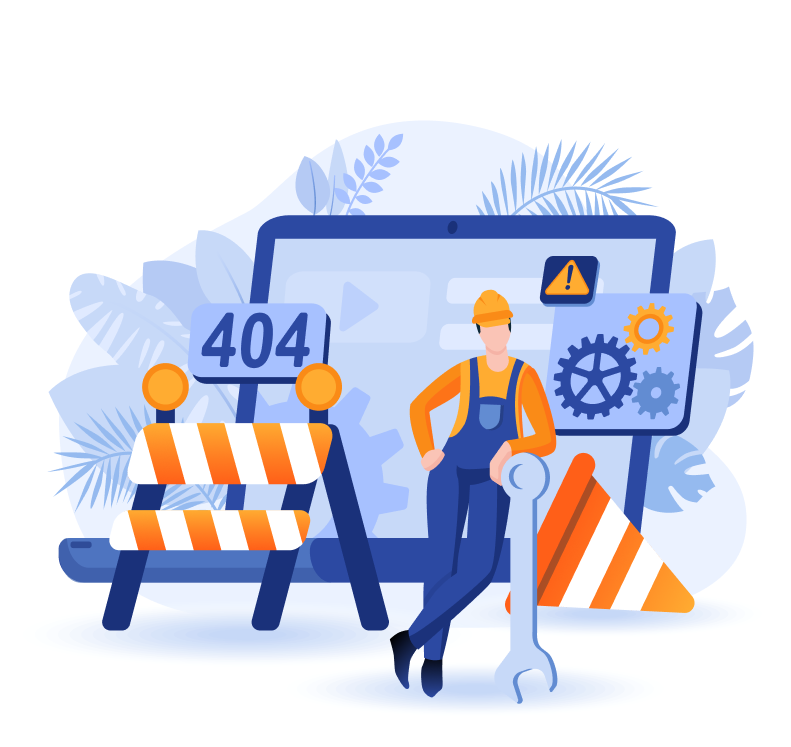
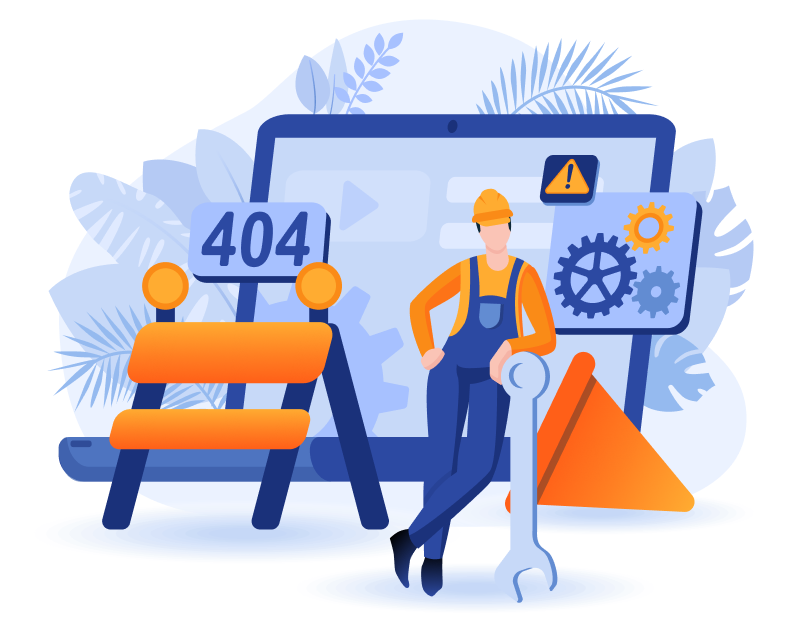
404 Animation

diff --git a/404page.html b/404page.html
@@ -10,6 +10,7 @@
     <script src="https://kit.fontawesome.com/88ee37ebb4.js" crossorigin="anonymous"></script>
     <link href="css/styles.css" rel="stylesheet">
     <link rel="stylesheet" type="text/css" href="custom.css">
+    <script src="js/animation.js" charset="utf-8"></script>
     <title>FoodPantries.org</title>
     <link rel="shortcut icon" type="image/x-icon" href="assets/images/browsericon.png" />
   </head>
@@ -116,7 +117,7 @@
         <a class="btn btn-primary mb-3" href="index.html">Home</a>
       </div>
       <div class="col">
-        <img src="assets/images/404.png">
+        <img src="assets/images/404.png" id="404ErrorImage" data-tilt>
       </div>
     </div>
 </div>

diff --git a/js/animation.js b/js/animation.js
@@ -12,6 +12,11 @@ document.addEventListener("DOMContentLoaded", () => {
         perspective: 1000,
         easing: 'cubic-bezier(0.21, 0.83, 0, 0.99)'
     })
+
+    $('#404ErrorImage').tilt({
+        perspective: 1000,
+        easing: 'cubic-bezier(0.21, 0.83, 0, 0.99)'
+    })
     // HERO //
     let heroHeading = document.querySelector('#heroHeading');
     
